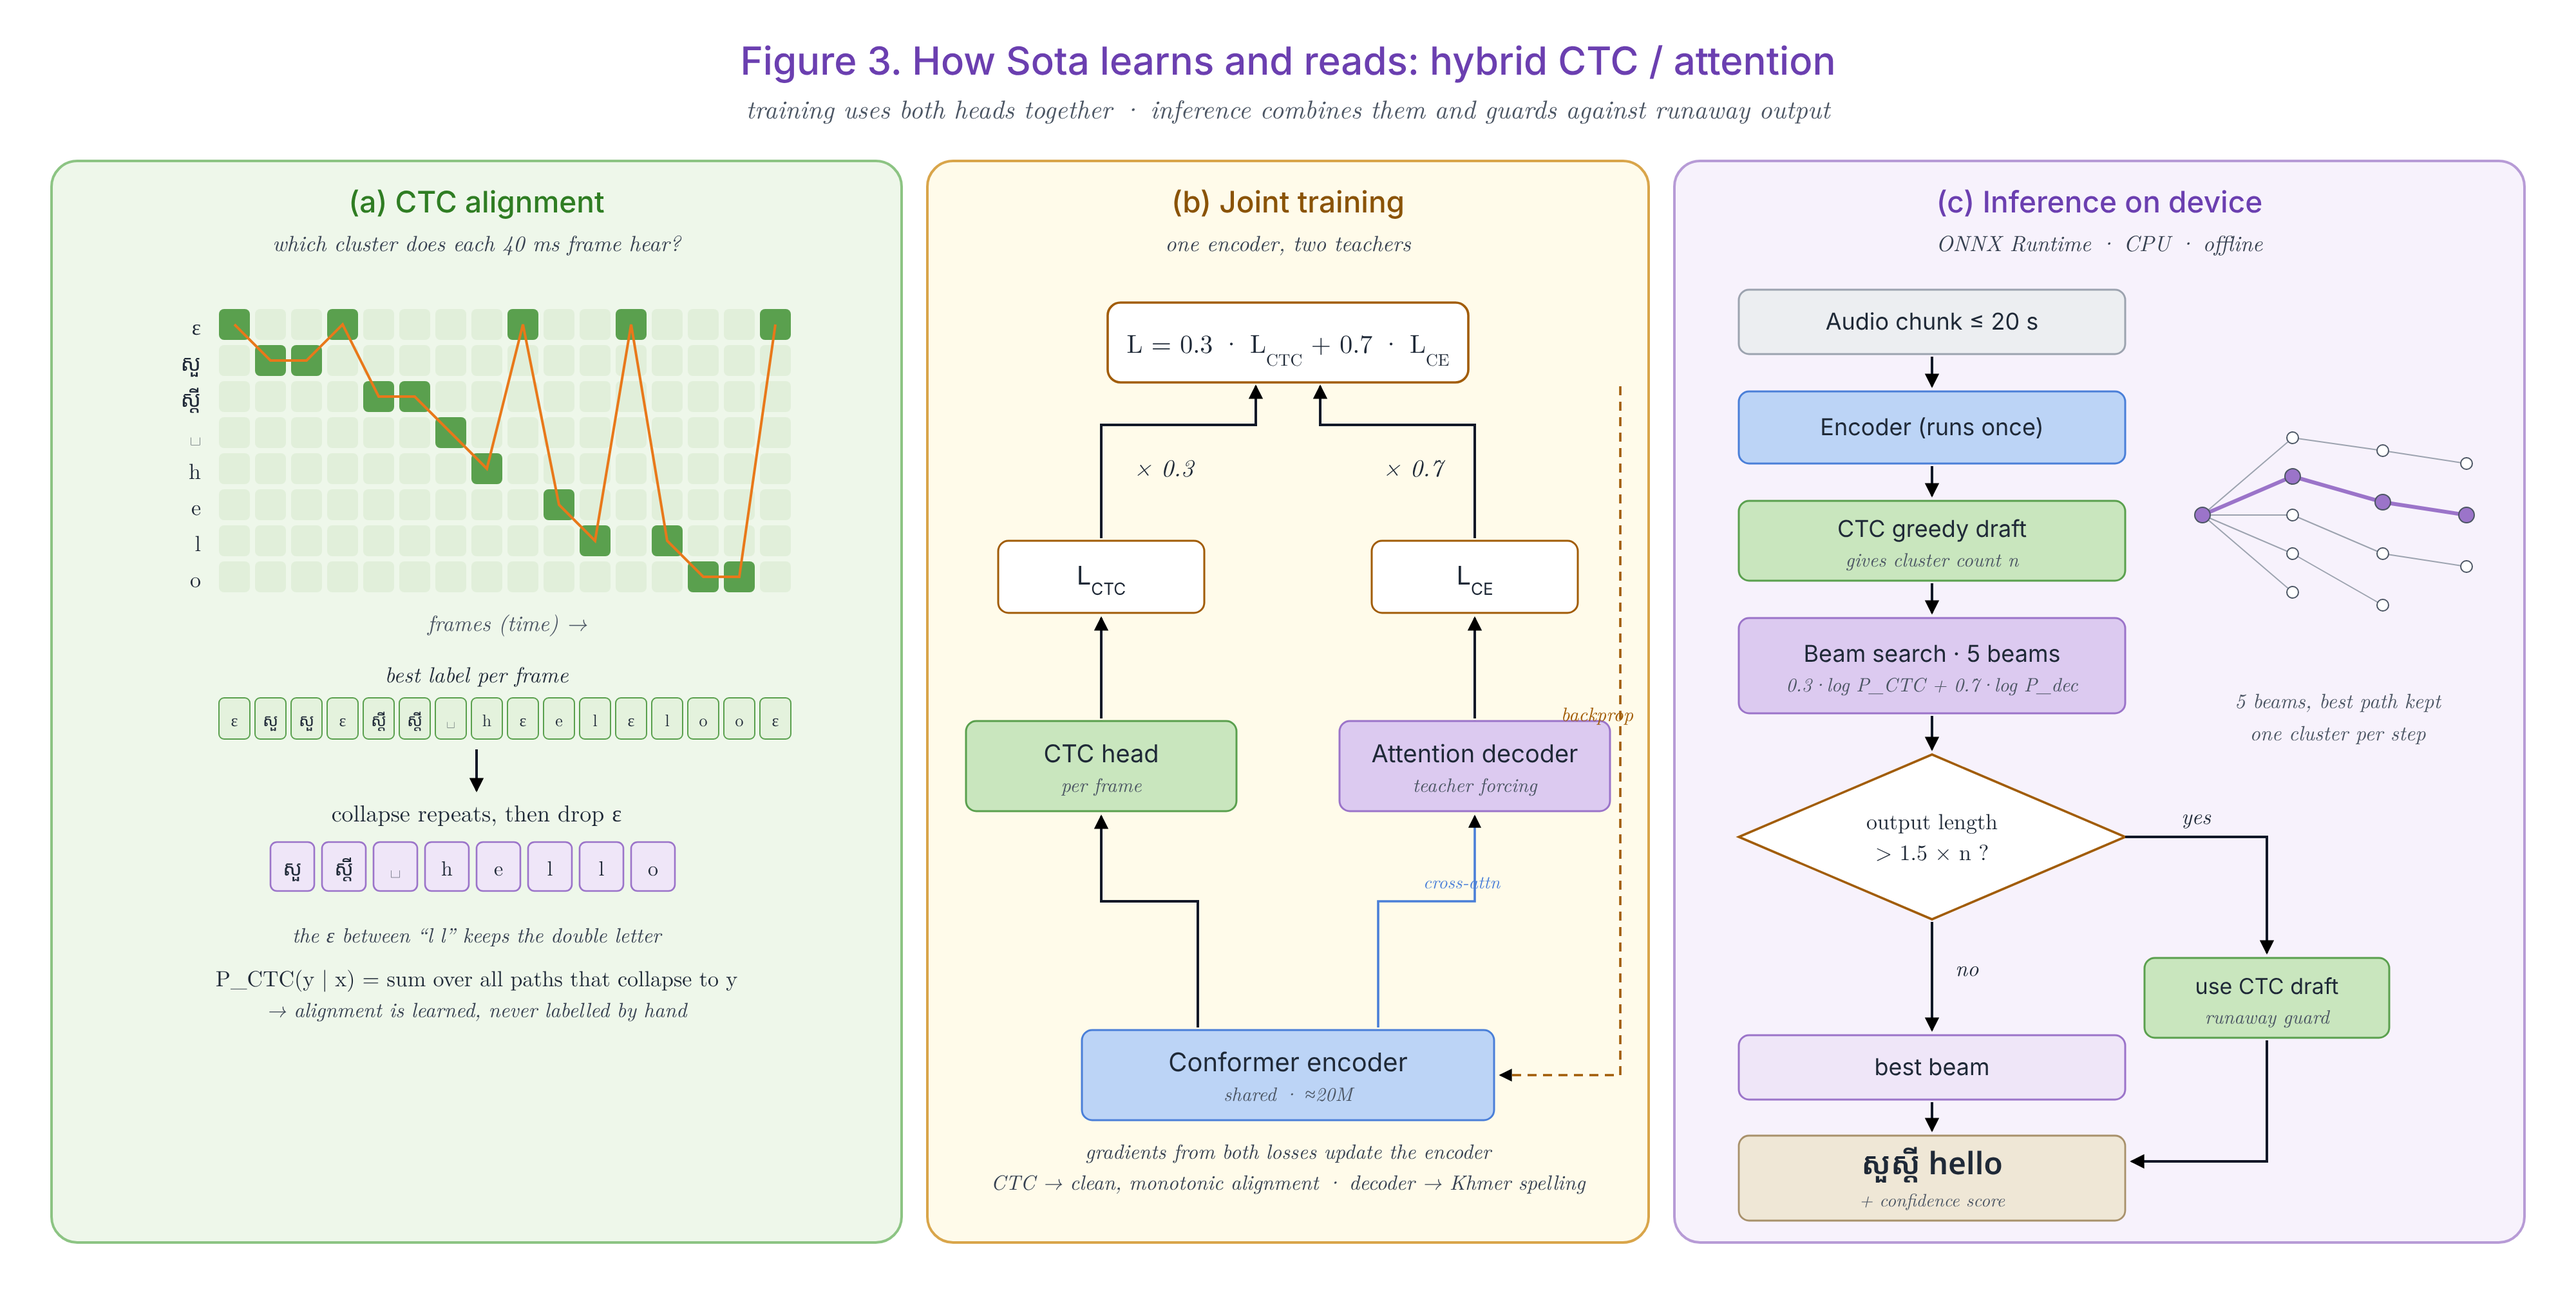
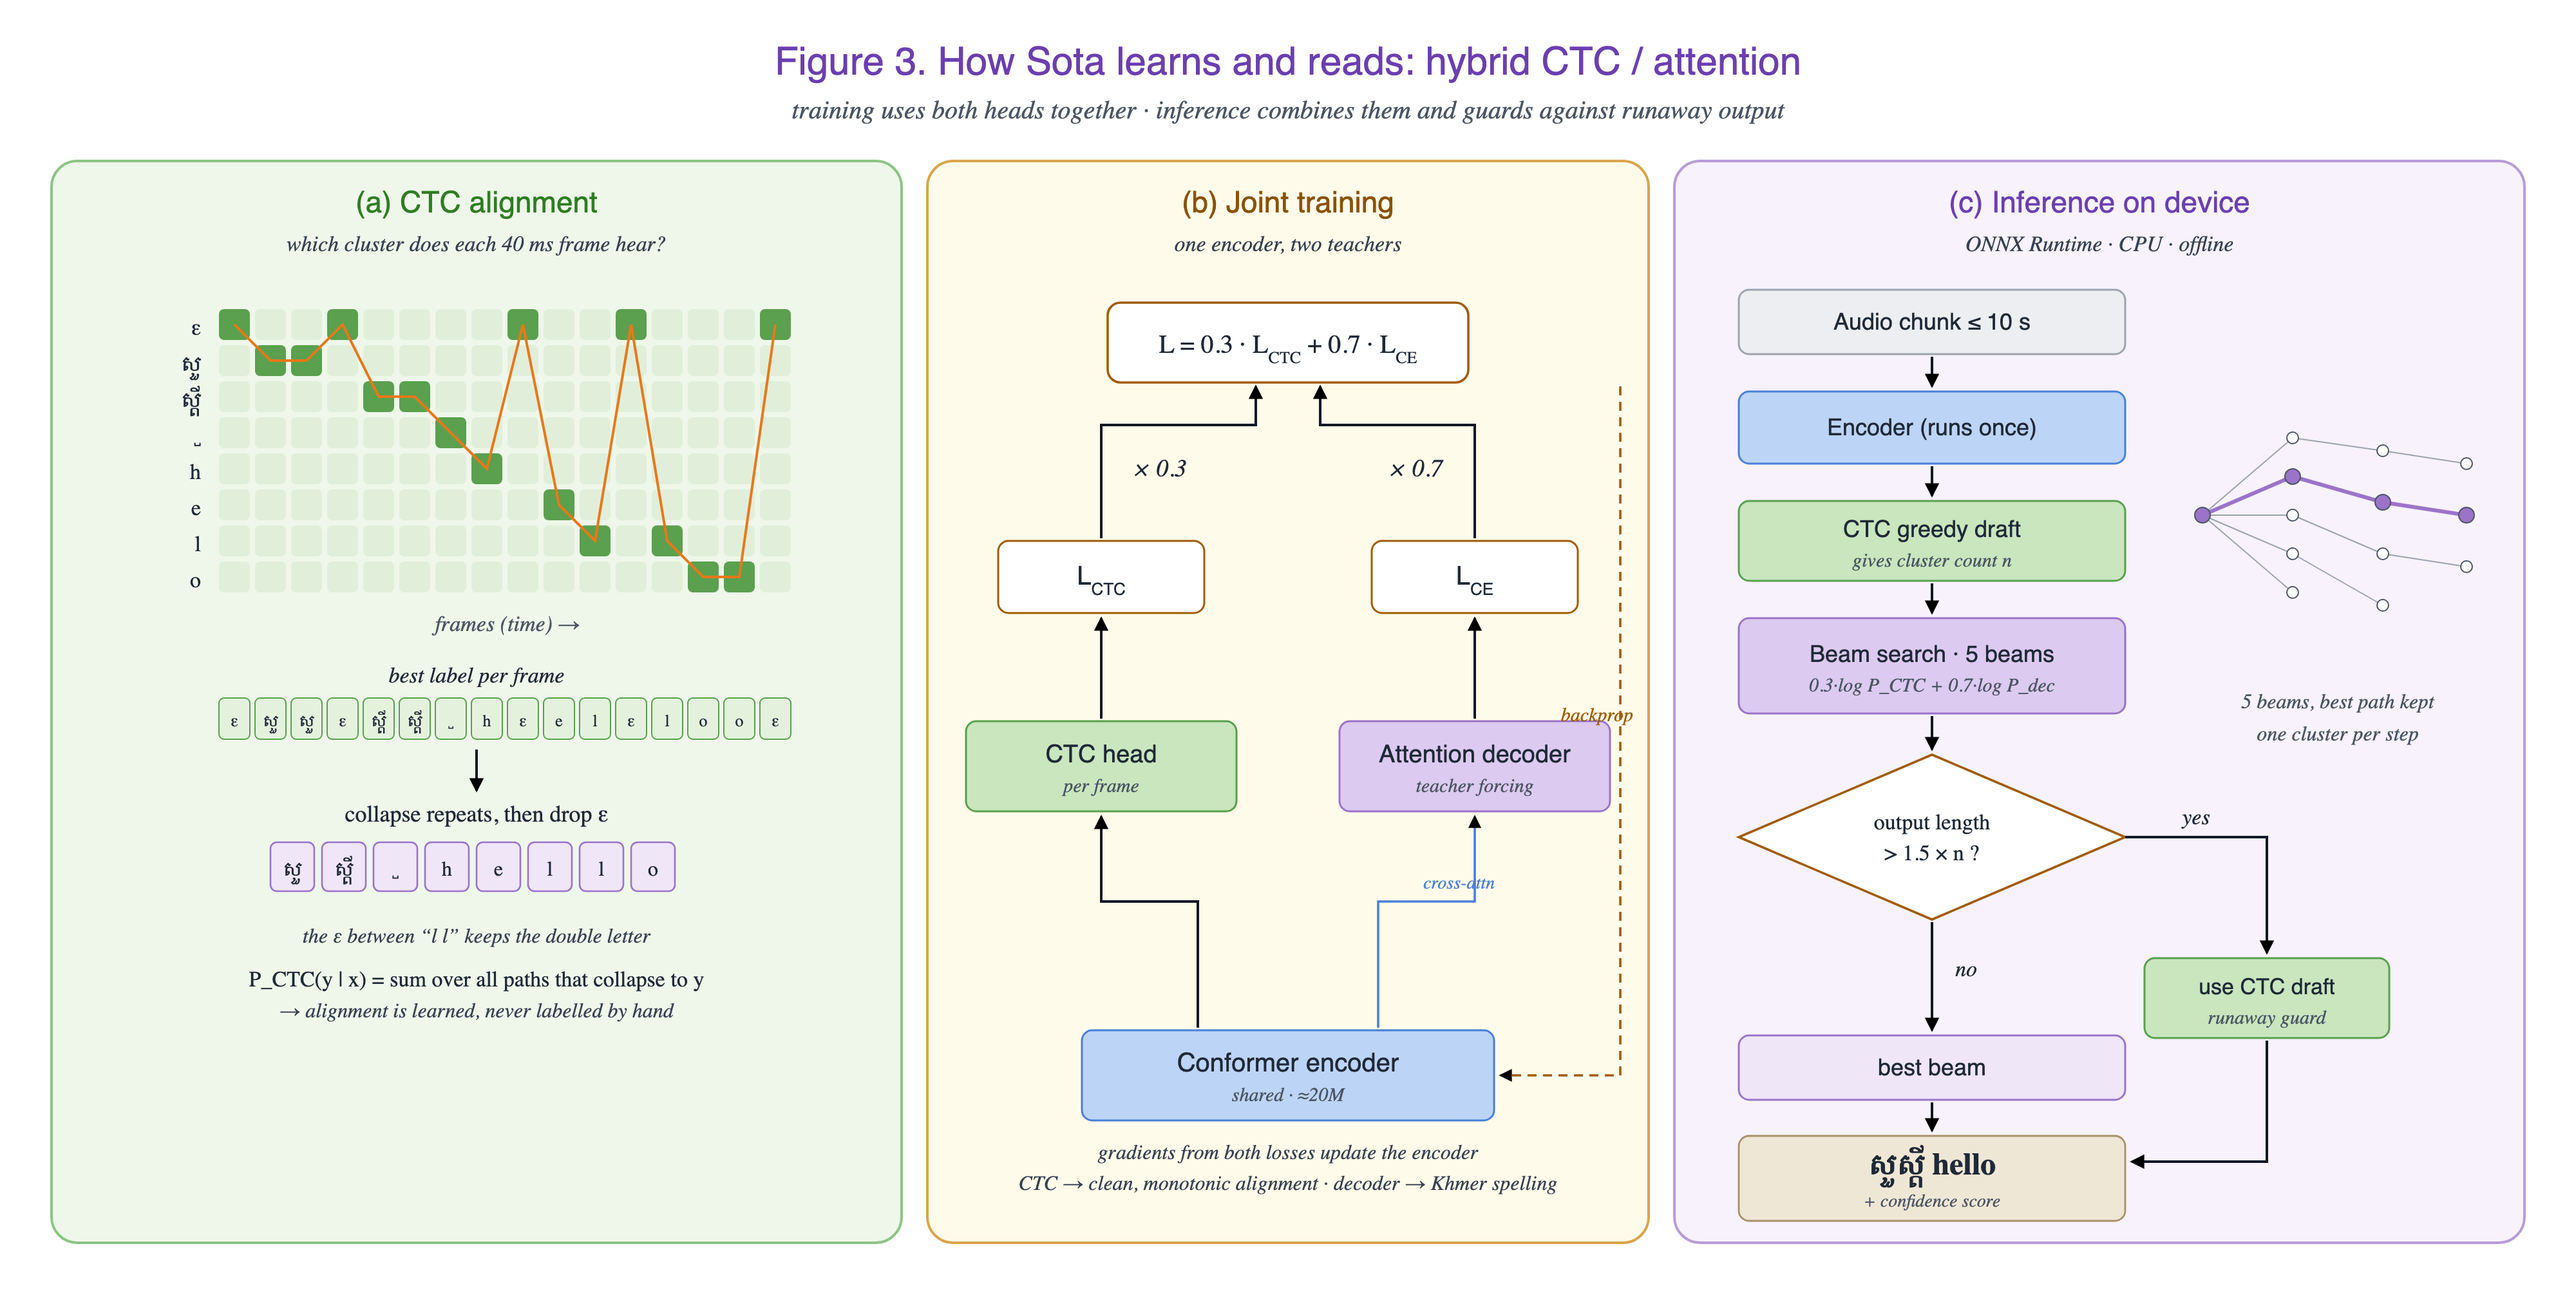
Update data numbers: real vs synthetic speech, 10 s chunks

diff --git a/index.html b/index.html
@@ -522,7 +522,7 @@ details.tbl th:first-child,details.tbl td:first-child{text-align:left}
     <div class="card"><div class="stats">
       <div class="stat"><b class="muted">soon</b><span>Qwen3-ASR-0.6B-Khmer CER</span></div>
       <div class="stat"><b class="muted">soon</b><span>Whisper-small-khmer CER</span></div>
-      <div class="stat"><b>1,100 h</b><span>Khmer speech for training</span></div>
+      <div class="stat"><b>≈240 h</b><span>real Khmer speech (+ ≈770 h made by VoxPocket)</span></div>
       <div class="stat"><b class="muted">soon</b><span>Sota</span></div>
     </div></div>
     <div class="grid g3" style="margin-top:18px">
@@ -543,15 +543,16 @@ details.tbl th:first-child,details.tbl td:first-child{text-align:left}
       <div class="card">
         <h3>Training</h3>
         <table class="cmp data">
-          <tr><td><b>Khmer speech, ~1,100 hours</b><small>resampled to 16 kHz mono, text normalized (Unicode NFC), split by speaker</small></td><td>checking</td></tr>
-          <tr><td><b>Augmentation</b><small>SpecAugment masks, speed 0.9 / 1.0 / 1.1, added background noise</small></td><td>own</td></tr>
+          <tr><td><b>Real Khmer speech, ≈240 hours</b><small>people recorded reading and talking; 16 kHz mono, text normalized, split by speaker; dev and test come only from here</small></td><td>checking</td></tr>
+          <tr><td><b>Synthetic speech, ≈770 hours</b><small>made by VoxPocket TTS: many voices, styles and Khmer–English sentences; at most half of each epoch</small></td><td>own</td></tr>
+          <tr><td><b>Augmentation</b><small>SpecAugment masks, speed 0.9 / 1.0 / 1.1, background noise, room echo, phone-call audio</small></td><td>own</td></tr>
           <tr><td><b>Khmer text for the decoder</b><small>the same sentences Chakkhu learns from</small></td><td>own</td></tr>
         </table>
       </div>
       <div class="card">
         <h3>Testing (never trained on)</h3>
         <table class="cmp data">
-          <tr><td><b>Held-out speakers</b><small>from the 1,100 h, never seen in training</small></td><td>own</td></tr>
+          <tr><td><b>Held-out speakers</b><small>from the real speech, never seen in training (not even as cloned voices)</small></td><td>own</td></tr>
           <tr><td><b>Real-life clips</b><small>phone calls, street noise, Khmer + English (to collect)</small></td><td>own</td></tr>
           <tr><td><b>khmer-asr-compare-eval</b><small>287 Khmer and code-switched clips on Hugging Face (gated)</small></td><td>checking</td></tr>
         </table>
@@ -568,7 +569,7 @@ details.tbl th:first-child,details.tbl td:first-child{text-align:left}
     <div class="road">
       <div class="rstep done"><span class="status st-ok">Done</span><h3>Name &amp; design</h3><p>Sota <span class="km">សោតៈ</span>, the ≈26M hybrid design and three architecture figures.</p></div>
       <div class="rstep done"><span class="status st-ok">Done</span><h3>Cluster tokenizer</h3><p>3,402 Khmer cluster tokens, shared with Chakkhu.</p></div>
-      <div class="rstep now"><span class="status st-test">Next</span><h3>Prepare the audio</h3><p>1,100 h: resample, normalize text, split by speaker, licenses checked.</p></div>
+      <div class="rstep now"><span class="status st-test">Next</span><h3>Prepare the audio</h3><p>≈1,010 h (≈240 h real): resample, clean text, split by speaker, remove leaks, licenses checked.</p></div>
       <div class="rstep"><span class="status st-soon">Soon</span><h3>Baseline report</h3><p>Qwen3-ASR-Khmer and Whisper-small-khmer scored on the same clips.</p></div>
       <div class="rstep"><span class="status st-soon">Soon</span><h3>Train Sota</h3><p>Decoder learns Khmer text first, then a small test run, then the full run.</p></div>
       <div class="rstep"><span class="status st-soon">Soon</span><h3>Test &amp; release</h3><p>Released only if it reaches the bar: model on Hugging Face, web demo.</p></div>

diff --git a/tools/figures/fig3.py b/tools/figures/fig3.py
@@ -55,7 +55,7 @@ t(1268,560,"backprop",15,italic=True,fill="#a15c07",anchor="end")
 R(1300,125,660,840,PU,PUs,2,20); t(1630,165,"(c) Inference on device",23,500,"#6b3fb0",fam=SAN)
 t(1630,195,"ONNX Runtime · CPU · offline",17,italic=True,fill="#374151")
 cx=1500
-box(cx-150,225,300,50,GY,GYs,"Audio chunk ≤ 20 s",size=18)
+box(cx-150,225,300,50,GY,GYs,"Audio chunk ≤ 10 s",size=18)
 A([(cx,277),(cx,300)])
 box(cx-150,304,300,56,BT,BTs,"Encoder (runs once)",size=18)
 A([(cx,362),(cx,385)])
